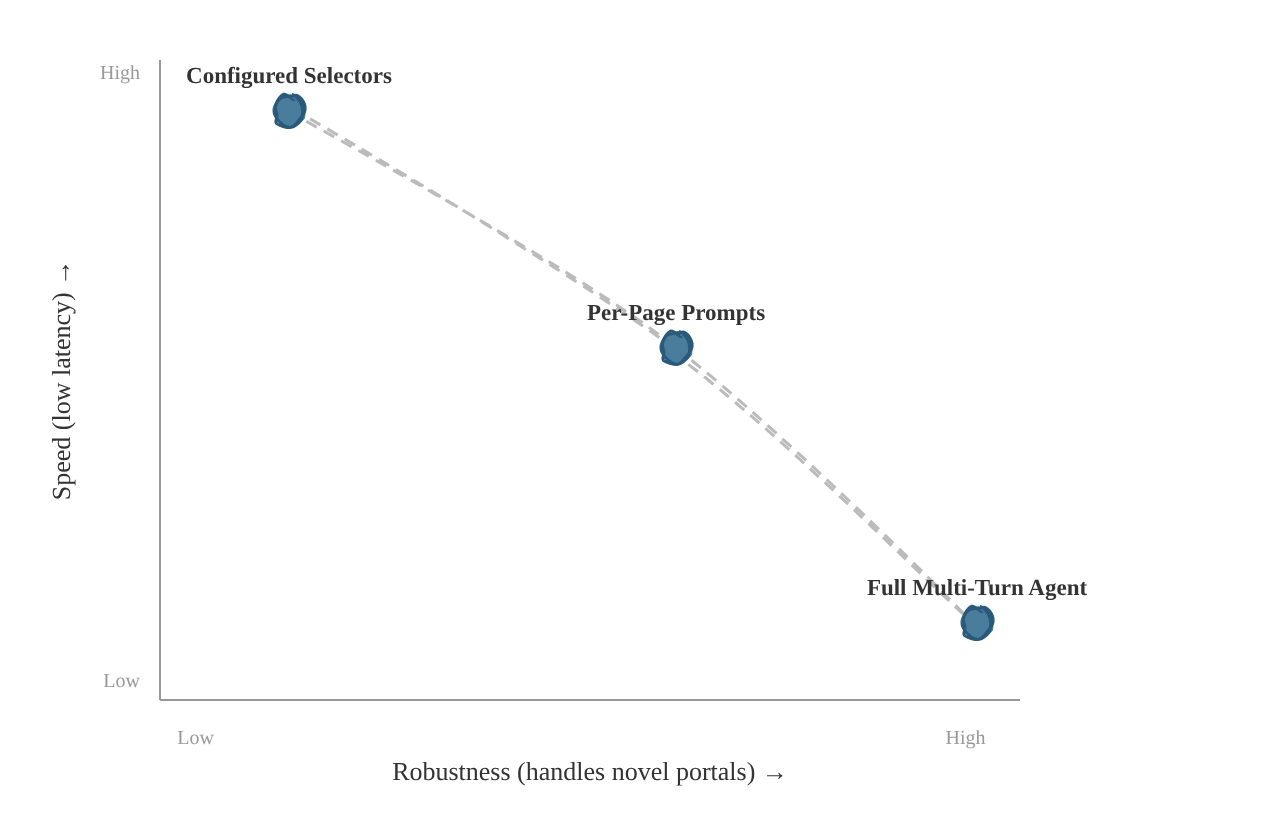
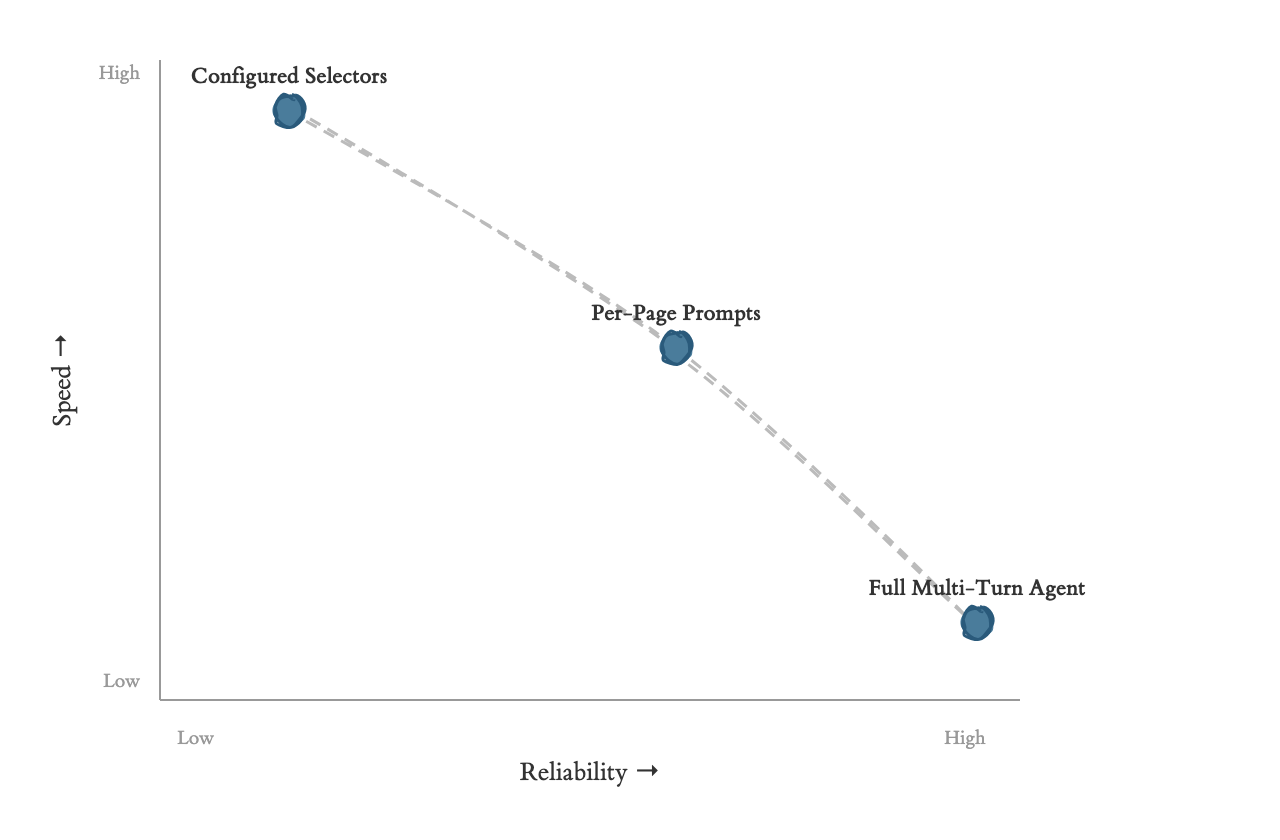
Refresh diagrams and harden asset transparency
- Mermaid architecture: rebuild around a Durable Storage subgraph; add Portal Crawl, Data Normalization, and Automated Reviewer; bidirectional edges to the SIE subgraph border instead of to Control Loop; BT layout.
- Set flowchart htmlLabels: false in mermaid.initialize so chromium stops rasterizing foreignObject HTML labels with opaque white pixels regardless of CSS overrides.
- Render script: patch fills/backgrounds via inline-style with !important after render to beat mermaid's ID-scoped CSS; sweep over .node, .cluster, span.edgeLabel, .labelBkg.
- D3 long-tail charts: drop percentage tick labels (false precision), drop axis-label parentheticals, shorten 'Insurer portals' to 'Insurers', tighten bottom padding.
- Rename Robustness -> Reliability throughout chart code and prose.

diff --git a/index.html b/index.html
@@ -303,7 +303,7 @@
           If you squint, the problem of &ldquo;sign in to an insurer portal we&rsquo;ve never seen before&rdquo; contains, as a special
           case, the problem of &ldquo;sign in to a portal we&rsquo;ve seen before, but that just updated its login pages&rdquo;&mdash;and the
           AI approach indeed handled changes like that which had broken the hard-coded selectors.
-          We collect both kinds of novelty handling as &ldquo;robustness&rdquo;, below.
+          We collect both kinds of novelty handling as &ldquo;reliability&rdquo;, below.
         </span>
       </p>
 
@@ -332,7 +332,7 @@
     </section>
 
     <section>
-      <h2>The Robustness&ndash;Speed Frontier</h2>
+      <h2>The Reliability&ndash;Speed Frontier</h2>
 
       <p>
         <span class="newthought">The system faces a tradeoff</span> between reliability on novel portals
@@ -346,7 +346,7 @@
 
       <p>
         On the top left, you have our pre-AI setup of hand-written element selectors for each portal.
-        Moving to the right (more robust) and down (slower),<label for="sn-slower" class="margin-toggle sidenote-number"></label>
+        Moving to the right (more reliable) and down (slower),<label for="sn-slower" class="margin-toggle sidenote-number"></label>
         <input type="checkbox" id="sn-slower" class="margin-toggle" />
         <span class="sidenote">
           <strong>How much slower?</strong> Roughly 90 seconds for the agent vs roughly 30 seconds for the hard-coded one (ignoring
@@ -398,27 +398,37 @@
         <div class="diagram-container fullwidth">
           <pre class="mermaid">
 flowchart BT
-  subgraph SIE["Sign-In Engine"]
-    Engine["Control Loop"]
-    Config["Configured\nSelectors"]
-    AI["Agent"]
-    SS["Single-Shot Prompts"]
-    PW["Playwright\n(via Browserbase)"]
-  end
-
-  Temporal["Temporal"]
-  NEST["API Server (NestJS)"]
-  DB["Database"]
-
   subgraph Client["Clients"]
+    direction LR
     Mobile["Mobile (React Native)"]
     Web["Web (Next.js)"]
   end
 
-  Mobile --> NEST
-  Web --> NEST
-  NEST --> Temporal
-  Temporal --> Engine
+  NEST["API Server (NestJS)"]
+
+  subgraph Storage["Durable Storage"]
+    direction LR
+    Temporal["Temporal"]
+    DB[("Database")]
+  end
+
+  subgraph SIE["Sign-In Engine"]
+    direction TB
+    Engine["Control Loop"]
+    Config["Configured\nSelectors"]
+    SS["Single-Shot Prompts"]
+    AI["Agent"]
+    PW["Playwright\n(via Browserbase)"]
+    Reviewer["Automated Reviewer"]
+  end
+
+  Crawl["Portal Crawl"]
+  Norm["Data Normalization"]
+
+  Client --> NEST
+  NEST --> Storage
+  Storage <--> SIE
+  SIE --> Crawl
   Engine -->|"race"| Config
   Engine -->|"race"| AI
   Engine -->|"race"| SS
@@ -426,9 +436,9 @@ flowchart BT
   AI --> PW
   SS --> PW
   PW -->|"filtered HTML, screenshots, etc"| Engine
-  Engine -.-> Temporal
-  NEST --> DB
-  Engine --> DB
+  Crawl --> Norm
+  Storage <--> Crawl
+  Storage <--> Norm
 
   click Mobile href "https://reactnative.dev/" _blank
   click Web href "https://nextjs.org/" _blank
@@ -612,7 +622,7 @@ stateDiagram-v2
         fontFamily: 'et-book, Palatino, "Palatino Linotype", Georgia, serif',
         fontSize: '14px',
       },
-      flowchart: { curve: 'basis', padding: 20 },
+      flowchart: { curve: 'basis', padding: 20, htmlLabels: false },
       sequence: { mirrorActors: false, messageMargin: 40 },
       stateDiagram: { defaultRenderer: 'dagre' },
     });
@@ -632,7 +642,7 @@ stateDiagram-v2
       const data = [
         {
           name: "Configured Selectors",
-          robustness: 0.15,
+          reliability: 0.15,
           speed: 0.92,
           color: "#4a7c9b",
           description: "Hand-coded XPath selectors for known portals (Cigna, UHC, Anthem). Fastest path\u2009\u2014\u2009pure deterministic code, no LLM calls. Breaks when a portal redesigns. Covers the ~20 highest-traffic portals.",
@@ -640,7 +650,7 @@ stateDiagram-v2
         },
         {
           name: "Per-Page Prompts",
-          robustness: 0.6,
+          reliability: 0.6,
           speed: 0.55,
           color: "#4a7c9b",
           description: "Single LLM call with page screenshot + filtered HTML. The model identifies form fields and returns a structured response. Works on most standard login forms without prior configuration.",
@@ -648,7 +658,7 @@ stateDiagram-v2
         },
         {
           name: "Full Multi-Turn Agent",
-          robustness: 0.95,
+          reliability: 0.95,
           speed: 0.12,
           color: "#4a7c9b",
           description: "Claude with vision iterating over page state with the full browsing tool suite (click, type, scroll, screenshot). Handles novel portals, unusual MFA flows, and unexpected intermediate screens. Most expensive in tokens and time.",
@@ -689,11 +699,11 @@ stateDiagram-v2
       g.append('text').attr('x', inner.w / 2).attr('y', inner.h + 40)
         .attr('text-anchor', 'middle').attr('font-size', '13px').attr('fill', '#333')
         .attr('font-family', 'et-book, Palatino, Georgia, serif')
-        .text('Robustness (handles novel portals) \u2192');
+        .text('Reliability \u2192');
       g.append('text').attr('transform', 'rotate(-90)').attr('x', -inner.h / 2).attr('y', -45)
         .attr('text-anchor', 'middle').attr('font-size', '13px').attr('fill', '#333')
         .attr('font-family', 'et-book, Palatino, Georgia, serif')
-        .text('Speed (low latency) \u2192 ');
+        .text('Speed \u2192 ');
 
       // Low/High labels
       g.append('text').attr('x', x(0.02)).attr('y', inner.h + 22).attr('font-size', '10px').attr('fill', '#999').text('Low');
@@ -702,7 +712,7 @@ stateDiagram-v2
       g.append('text').attr('x', -10).attr('y', y(0.97)).attr('font-size', '10px').attr('fill', '#999').attr('text-anchor', 'end').text('High');
 
       // Dashed frontier curve through the 3 base points
-      const line = d3.line().x(d => x(d.robustness)).y(d => y(d.speed)).curve(d3.curveCatmullRom);
+      const line = d3.line().x(d => x(d.reliability)).y(d => y(d.speed)).curve(d3.curveCatmullRom);
       const curveD = line(data);
       g.node().appendChild(rc.path(curveD, {
         ...rOpts, stroke: '#bbb', strokeWidth: 1.5, fill: 'none',
@@ -711,7 +721,7 @@ stateDiagram-v2
 
       // Points
       data.forEach(d => {
-        g.node().appendChild(rc.circle(x(d.robustness), y(d.speed), 16, {
+        g.node().appendChild(rc.circle(x(d.reliability), y(d.speed), 16, {
           ...rOpts, fill: '#4a7c9b', stroke: '#2a5a7b', strokeWidth: 1.5,
           fillStyle: 'solid', roughness: 1
         }));
@@ -719,7 +729,7 @@ stateDiagram-v2
 
       // Labels
       g.selectAll('.frontier-label').data(data).enter().append('text')
-        .attr('x', d => x(d.robustness)).attr('y', d => y(d.speed) - 14)
+        .attr('x', d => x(d.reliability)).attr('y', d => y(d.speed) - 14)
         .attr('text-anchor', 'middle').attr('font-size', '11.5px').attr('font-weight', 'bold')
         .attr('fill', '#333').attr('font-family', 'et-book, Palatino, Georgia, serif')
         .text(d => d.name);
@@ -731,7 +741,7 @@ stateDiagram-v2
 
         let closest = null, minDist = Infinity;
         for (const pt of allPoints) {
-          const dist = Math.hypot(pt.robustness - dataX, pt.speed - dataY);
+          const dist = Math.hypot(pt.reliability - dataX, pt.speed - dataY);
           if (dist < minDist) { minDist = dist; closest = pt; }
         }
 
@@ -750,8 +760,8 @@ stateDiagram-v2
 
       // ── Power-law insurer distribution chart ──
       const plContainer = document.getElementById('powerlaw-plot');
-      const plMargin = { top: 20, right: 30, bottom: 50, left: 60 };
-      const plWidth = 520, plHeight = 300;
+      const plMargin = { top: 20, right: 30, bottom: 32, left: 60 };
+      const plWidth = 520, plHeight = 282;
       const plInner = { w: plWidth - plMargin.left - plMargin.right, h: plHeight - plMargin.top - plMargin.bottom };
 
       // Pareto PDF: f(x) = k*(1-x)^(k-1), where k is chosen so that
@@ -779,18 +789,17 @@ stateDiagram-v2
 
       // Axes — minimal, no ticks on Y (illustrative)
       plG.append('g').attr('transform', `translate(0,${plInner.h})`)
-        .call(d3.axisBottom(plX).ticks(5).tickFormat(d => Math.round(d * 100) + '%'))
-        .call(g => g.select('.domain').attr('stroke', '#999'))
-        .selectAll('text').attr('font-family', 'et-book, Palatino, Georgia, serif').attr('font-size', '11px');
+        .call(d3.axisBottom(plX).ticks(0).tickSize(0))
+        .call(g => g.select('.domain').attr('stroke', '#999'));
       plG.append('g')
         .call(d3.axisLeft(plY).ticks(0).tickSize(0))
         .call(g => g.select('.domain').attr('stroke', '#999'));
 
       // Axis labels
-      plG.append('text').attr('x', plInner.w / 2).attr('y', plInner.h + 40)
+      plG.append('text').attr('x', plInner.w / 2).attr('y', plInner.h + 22)
         .attr('text-anchor', 'middle').attr('font-size', '13px').attr('fill', '#333')
         .attr('font-family', 'et-book, Palatino, Georgia, serif')
-        .text('Insurer portals (ranked by traffic) \u2192');
+        .text('Insurers \u2192');
       plG.append('text').attr('transform', 'rotate(-90)').attr('x', -plInner.h / 2).attr('y', -20)
         .attr('text-anchor', 'middle').attr('font-size', '13px').attr('fill', '#333')
         .attr('font-family', 'et-book, Palatino, Georgia, serif')
@@ -877,18 +886,17 @@ stateDiagram-v2
 
       // Axes
       bareG.append('g').attr('transform', `translate(0,${plInner.h})`)
-        .call(d3.axisBottom(plX).ticks(5).tickFormat(d => Math.round(d * 100) + '%'))
-        .call(g => g.select('.domain').attr('stroke', '#999'))
-        .selectAll('text').attr('font-family', 'et-book, Palatino, Georgia, serif').attr('font-size', '11px');
+        .call(d3.axisBottom(plX).ticks(0).tickSize(0))
+        .call(g => g.select('.domain').attr('stroke', '#999'));
       bareG.append('g')
         .call(d3.axisLeft(plY).ticks(0).tickSize(0))
         .call(g => g.select('.domain').attr('stroke', '#999'));
 
       // Axis labels
-      bareG.append('text').attr('x', plInner.w / 2).attr('y', plInner.h + 40)
+      bareG.append('text').attr('x', plInner.w / 2).attr('y', plInner.h + 22)
         .attr('text-anchor', 'middle').attr('font-size', '13px').attr('fill', '#333')
         .attr('font-family', 'et-book, Palatino, Georgia, serif')
-        .text('Insurer portals (ranked by traffic) \u2192');
+        .text('Insurers \u2192');
       bareG.append('text').attr('transform', 'rotate(-90)').attr('x', -plInner.h / 2).attr('y', -20)
         .attr('text-anchor', 'middle').attr('font-size', '13px').attr('fill', '#333')
         .attr('font-family', 'et-book, Palatino, Georgia, serif')

diff --git a/scripts/render-assets.js b/scripts/render-assets.js
@@ -61,6 +61,22 @@ const libsDir = path.join(__dirname, 'libs');
     `,
   });
 
+  // Mermaid injects ID-scoped !important CSS that beats class-only rules, so
+  // patch fills/backgrounds inline on each element after it renders.
+  await page.evaluate(() => {
+    const setFill = (sel) => document.querySelectorAll(sel).forEach(el => {
+      el.setAttribute('fill', 'transparent');
+      el.style.setProperty('fill', 'transparent', 'important');
+    });
+    const setBg = (sel) => document.querySelectorAll(sel).forEach(el => {
+      el.style.setProperty('background-color', 'transparent', 'important');
+      el.style.setProperty('background', 'transparent', 'important');
+    });
+    setFill('.mermaid svg .cluster rect, .mermaid svg .cluster polygon, .mermaid svg .cluster path');
+    setFill('.mermaid svg .node rect, .mermaid svg .node circle, .mermaid svg .node ellipse, .mermaid svg .node polygon, .mermaid svg .node path');
+    setBg('.mermaid svg span.edgeLabel, .mermaid svg span.nodeLabel, .mermaid svg .labelBkg, .mermaid svg foreignObject > div');
+  });
+
   const shot = { omitBackground: true };
 
   // Bare power-law curve
